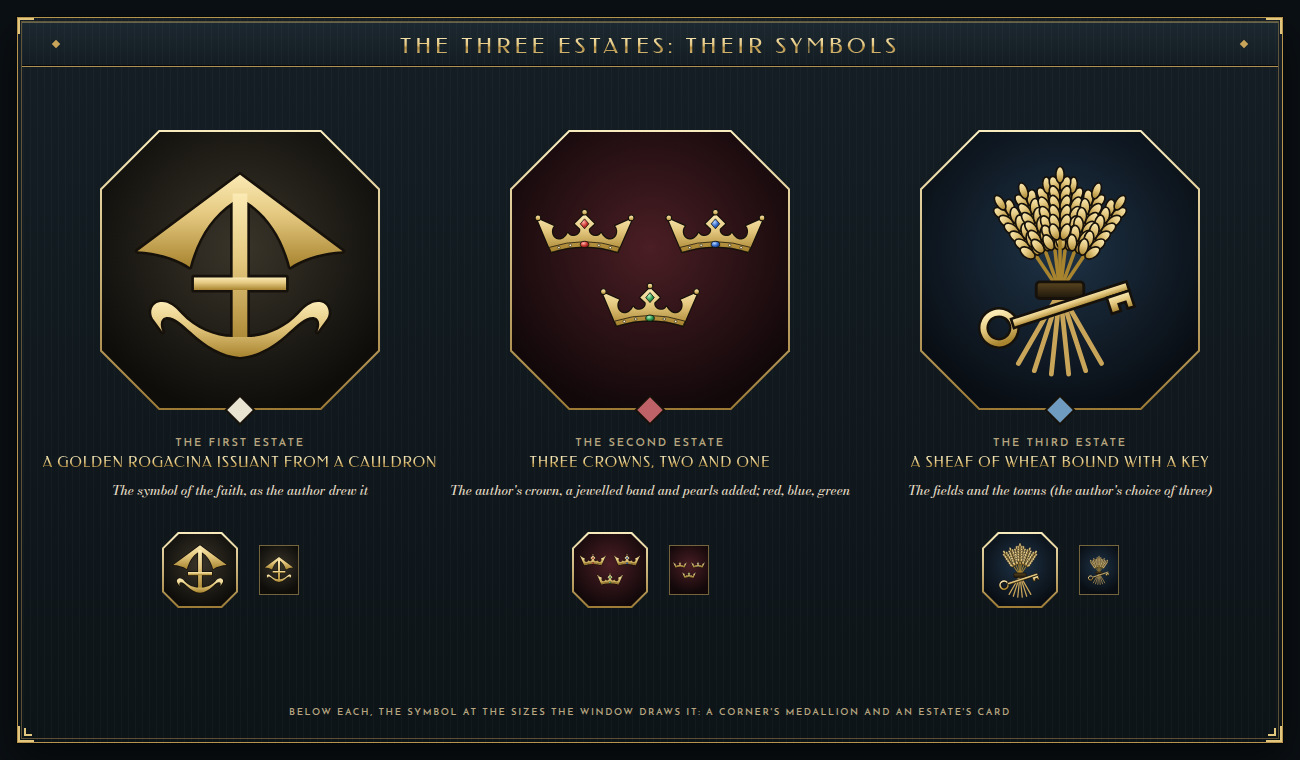
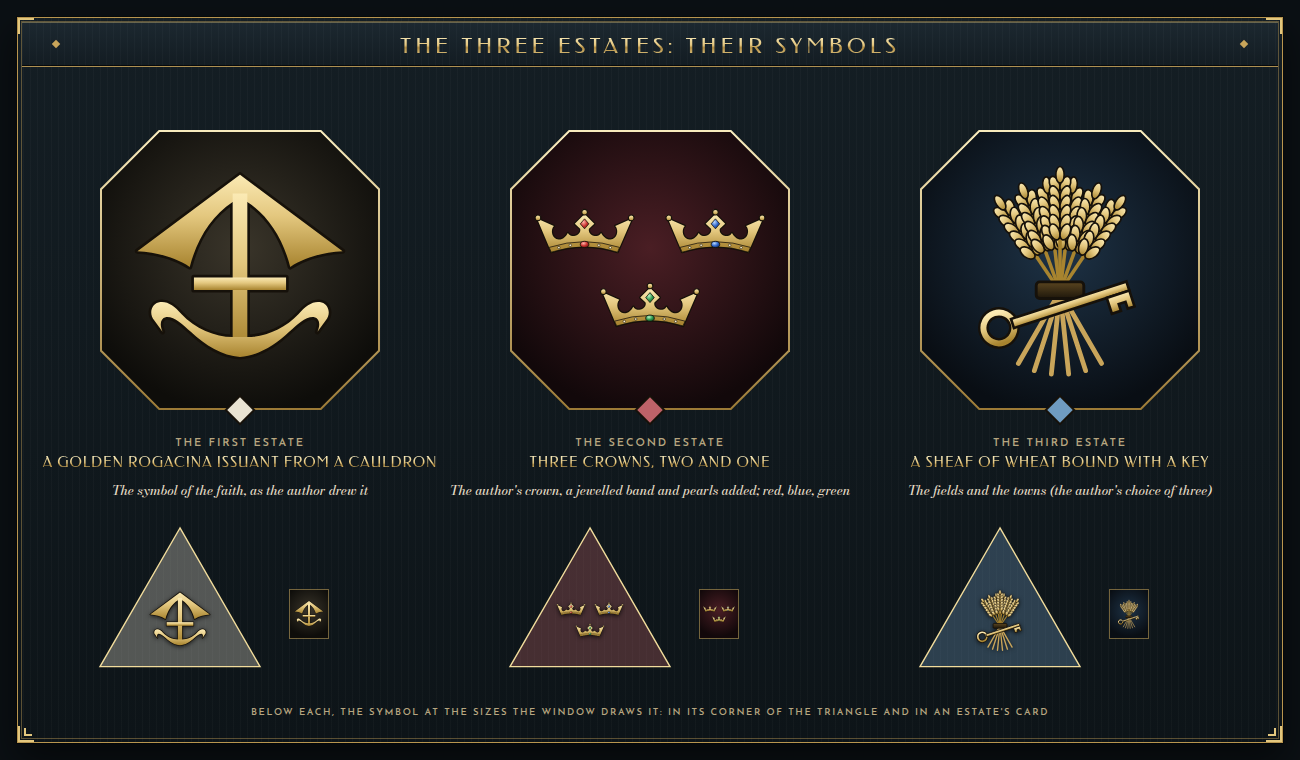
Three estates mockup: the symbols inside the triangle; Altar and Arms
The author chose the symbols inside the triangle's corners: every screen of the
mockup draws them there now (the zones sheet and the symbols sheet too), and
the separate window_inside picture is gone. The edge where the Third Estate is
shut out is Altar and Arms (was Altar and Manor), to alliterate as Church and
Commons and Manor and Market do.

Claude-Session: https://claude.ai/code/session_01TG83F4TvroUcXdi7eqNhMG

diff --git a/deco_ui/art/proposals/three_estates/make.py b/deco_ui/art/proposals/three_estates/make.py
@@ -11,13 +11,13 @@ we can tie things to Serelle winning battles, that'd be great. But otherwise it'
 Three screens:
   three_estates_window.png       1 June 2036: the estates in balance, Royal Authority rising, the Court behind Roland,
                                  the Promised Reforms running; Divide and Rule hovered
-  three_estates_window_inside.png  the same June, each estate's symbol inside its corner of the triangle
   three_estates_lords_realm.png  1 March 2037: the Second Estate over 60, the Lords' Realm: Royal Authority falling, the
                                  Court behind Serelle, the governorates under 40 that would break away
   three_estates_zones.png        the seven zones, Royal Authority and the Court's favour (a sheet for the author)
   three_estates_symbols.png      the estates' symbols large, and at the sizes the window draws them
 The estates are shown by their symbols, not their holders' portraits (the author: "Instead of portraits, I think I'd
-prefer to use symbols for the three estates": symbols.py).
+prefer to use symbols for the three estates": symbols.py), inside the triangle's corners (the author: "Let's go with the
+symbols inside the triangle"; until then in medallions beside them, corners_of, kept: inside=False).
 Not in the mod; the zones' names and effects, the decisions, Royal Authority's bands and every number but the start
 are placeholders; the Third Estate's champion is the author's to name.
 
@@ -98,7 +98,10 @@ ZONES = {
                   pts=((0, 0, 100), (40, 0, 60), (0, 40, 60)), col=ESTATES["third"][2],
                   eff=[("Democratic support", "+0.05 a day", 0), ("Royal Authority", "−2 a month", -1), ("Stability", "−5 %", -1),
                        ("Mercantile estates' loyalty", "+10", 1)]),
-    "no_third": dict(name="Altar and Manor", where="The Third Estate under 15", ra=0,
+    # "Altar and Arms" (the author: "come up with something besides "altar and manor." Something that fits with the
+    # alliteration of the other equivalents of it"): the altar the clergy's, arms the lords' (their swords and their
+    # coats of arms); Claude's
+    "no_third": dict(name="Altar and Arms", where="The Third Estate under 15", ra=0,
                      desc="Clergy and lords govern between them; the commons go unheard.",
                      leads="No path of its own: the commons' anger grows",
                      pts=((60, 40, 0), (40, 60, 0), (25, 60, 15), (60, 25, 15)),
@@ -184,15 +187,12 @@ START = (35, 35, 30)                       # 1 January 2036: the author's
 BREAK_BELOW = 40                           # a governorate under it breaks away in the Lords' Realm (Claude's)
 
 SCREENS = {
-    "window": dict(date="1 June 2036", since="January", ra=35, favour=62, hover=3, mission=(212, 0),
+    "window": dict(date="1 June 2036", since="January", ra=35, favour=62, hover=3, mission=(212, 0), inside=True,
                    trail=[(35, 35, 30), (36, 35, 29), (33, 41, 26), (29, 37, 34), (33, 35, 32), (32, 36, 32)]),
-    "lords_realm": dict(date="1 March 2037", since="January", ra=12, favour=43,
+    "lords_realm": dict(date="1 March 2037", since="January", ra=12, favour=43, inside=True,
                         trail=[(32, 36, 32), (30, 40, 30), (28, 46, 26), (27, 51, 22), (25, 56, 19), (24, 60, 16),
                                (23, 63, 14)]),
 }
-# the same June as the first, the symbols inside the triangle's corners (the author: "maybe make a mockup showing what
-# it'd look like if the symbols were in the triangles, rather than off to the side")
-SCREENS["window_inside"] = dict(SCREENS["window"], inside=True)
 
 
 def divide(shares):
@@ -228,14 +228,14 @@ def corners_of(T, shares):
     return out
 
 
-def triangle(T, zone, trail, ghost, inside=False):
+def triangle(T, zone, trail, ghost=None, inside=False, **kw):
     """the three powers' triangle drawn with the estates; inside, without the corners' names (their symbols are there)"""
     if not inside:
-        return TP.triangle(T, zone, trail, ghost)
+        return TP.triangle(T, zone, trail, ghost, **kw)
     keep = TP.LABEL_AT
     TP.LABEL_AT = {k: v for k, v in LABEL_AT.items() if k not in ORDER}
     try:
-        return TP.triangle(T, zone, trail, ghost)
+        return TP.triangle(T, zone, trail, ghost, **kw)
     finally:
         TP.LABEL_AT = keep
 
@@ -250,11 +250,10 @@ def marker(T, shares):
             f'<path d="{d(x, y, 4)}" fill="#16110A"/></svg>')
 
 
-def corners_inside(T, shares):
+def corners_inside(T, shares, n=80):
     """each estate's symbol in its corner of the triangle (the corner zone, which has the triangle's own shape: the
     symbol on its centre); outside the corners the estate, its zone's name and its share, no medallions"""
     out = ""
-    n = 80
     for k, share in zip(ORDER, shares):
         pts = [T.at(*p) for p in ZONES[k]["pts"]]
         cx, cy = sum(x for x, _ in pts) / 3, sum(y for _, y in pts) / 3
@@ -531,8 +530,8 @@ def zones_sheet():
     body += window(16, 16, w - 32, h - 32)
     body += header(22, 22, w - 44, 44, "The Three Estates: the seven zones and the Crown", 22)
     T = TP.Tri(390, 210, 600)
-    body += TP.triangle(T, None, [START], size=13)
-    body += corners_of(T, START)
+    body += triangle(T, None, [START], inside=True, size=13)
+    body += corners_inside(T, START, 110) + marker(T, START)
     body += label(60, 84, "Where the balance stands decides where Rouental goes", 10, LABEL)
     body += text(60, 100, "An estate of 60 or more takes Rouental down its path; an estate under 15 is shut out; between "
                  "them, the Crown holds the scales.", 13, CREAM2, w=640, font="bod", weight=500, lh=1.3)
@@ -579,7 +578,7 @@ def zones_sheet():
 
 
 def symbols_sheet():
-    """the three symbols large in the corners' medallions, and each at the sizes the window draws it"""
+    """the three symbols large in medallions, and each at the sizes the window draws it"""
     w, h = 1300, 760
     body = box(0, 0, w, h, "background:#0B1014")
     body += window(16, 16, w - 32, h - 32)
@@ -595,12 +594,19 @@ def symbols_sheet():
         body += label(cx - 190, cy + 168, ESTATES[k][0], 11, LABEL, w=380, align="center")
         body += title(cx - 200, cy + 186, lines[k][0], 14.5, w=400, align="center", track=.06)
         body += text(cx - 200, cy + 214, lines[k][1], 13, CREAM2, w=400, align="center", font="bod", weight=500)
-        # at the window's sizes: the corner's medallion (76) and the card's well (38)
-        body += TP.octo(cx - 40, cy + 300, 38, picture(k, 72, 72))
-        body += (f'<div class="a" style="left:{cx + 20}px;top:{cy + 276}px;width:38px;height:48px;'
+        # at the window's sizes: in its corner of the triangle (a corner zone 160 px a side, the symbol 80 on its centre)
+        # and in the card's well (38)
+        s, ax, ay = 160, cx - 60, cy + 258
+        hh = s * math.sqrt(3) / 2
+        body += (f'<svg class="a" style="left:0;top:0;overflow:visible" width="1" height="1"><polygon points="{ax},{ay} '
+                 f'{ax - s / 2},{ay + hh:.1f} {ax + s / 2},{ay + hh:.1f}" fill="{rgba(ESTATES[k][2], .32)}" '
+                 f'stroke="#F1DC9C" stroke-width="1.4"/></svg>')
+        body += (f'<div class="a" style="left:{ax - 40}px;top:{ay + hh * 2 / 3 - 40:.1f}px;'
+                 f'filter:drop-shadow(0 1px 2px rgba(0,0,0,.7))">{SY.symbol(k, 80)}</div>')
+        body += (f'<div class="a" style="left:{cx + 50}px;top:{cy + 320}px;width:38px;height:48px;'
                  f'box-shadow:0 0 0 1px rgba(201,165,90,.55);overflow:hidden">{picture(k, 38, 48)}</div>')
-    body += label(60, h - 52, "Below each, the symbol at the sizes the window draws it: a corner's medallion and an "
-                  "estate's card", 9.5, LABEL, w=w - 120, align="center")
+    body += label(60, h - 52, "Below each, the symbol at the sizes the window draws it: in its corner of the triangle "
+                  "and in an estate's card", 9.5, LABEL, w=w - 120, align="center")
     return body, w, h
 
 

diff --git a/deco_ui/art/proposals/three_estates/README.md b/deco_ui/art/proposals/three_estates/README.md
@@ -11,15 +11,14 @@ mockup." The plan and the author's words in full: `docs/ROUENTAL_ESTATES.md`.
 
 | Picture | What it shows |
 |---|---|
-| `three_estates_window.png` | 1 June 2036. The politics screen with the Three Estates' button where the three powers' sits, and its window. The triangle: the First Estate (the clergy, Anserra IX) at the top, the Second (the nobility, Tara Blanchart) bottom left, the Third (the commons, their champion to be named) bottom right; the marker in the Balance of Estates. Beside it: the estates, the Crown (Royal Authority 35 and rising; whom the Court follows, Roland 62, his diplomatic bonuses), the decisions, the estates' leanings. Under the triangle the Promised Reforms running (212 days left). Divide and Rule hovered: the strongest estate gives ground |
-| `three_estates_window_inside.png` | The same window with each estate's symbol inside its corner of the triangle (the author: "maybe make a mockup showing what it'd look like if the symbols were in the triangles, rather than off to the side"): the rogacina in the Voix Behind the Curtain, the three crowns in the Lords' Realm, the sheaf and key in the Commons Ascendant; the medallions gone, each estate's name, zone and share outside its corner, the marker drawn over them |
+| `three_estates_window.png` | 1 June 2036. The politics screen with the Three Estates' button where the three powers' sits, and its window. The triangle: the First Estate (the clergy, Anserra IX) at the top, the Second (the nobility, Tara Blanchart) bottom left, the Third (the commons, their champion to be named) bottom right, each estate's symbol inside its corner (the author: "Let's go with the symbols inside the triangle"), its name, zone and share outside it; the marker in the Balance of Estates. Beside it: the estates, the Crown (Royal Authority 35 and rising; whom the Court follows, Roland 62, his diplomatic bonuses), the decisions, the estates' leanings. Under the triangle the Promised Reforms running (212 days left). Divide and Rule hovered: the strongest estate gives ground |
 | `three_estates_lords_realm.png` | 1 March 2037. The Second Estate at 63: the Lords' Realm. Royal Authority 12 and falling; the Court behind Serelle (her army bonuses); in place of the decisions, the realm's map with the five governorates under 40 loyalty that would break away, numbered on their seals |
-| `three_estates_symbols.png` | The three estates' symbols, in place of their holders' portraits (the author: "Instead of portraits, I think I'd prefer to use symbols for the three estates"; then: "'rogacina issuant from a cauldron' is the name of the symbol ... Maybe just have the symbol for the 2nd estate be three crowns arranged in a triangle. Maybe have the crowns look like a slightly more ornamented version of this? One with a red gem, one with blue, one with green? For the third estate, I prefer the wheat and key"): the rogacina as the author drew it; three crowns two and one, 30 px apart on the 200 px drawing ("space out the three crowns a little more evenly", then "Spread the crowns out a little more"), the author's crown (Heraldicon's) with a jewelled band, pearls on its points and a red, a blue and a green gem; a sheaf of wheat bound with a key; each also at the sizes the window draws it |
+| `three_estates_symbols.png` | The three estates' symbols, in place of their holders' portraits (the author: "Instead of portraits, I think I'd prefer to use symbols for the three estates"; then: "'rogacina issuant from a cauldron' is the name of the symbol ... Maybe just have the symbol for the 2nd estate be three crowns arranged in a triangle. Maybe have the crowns look like a slightly more ornamented version of this? One with a red gem, one with blue, one with green? For the third estate, I prefer the wheat and key"): the rogacina as the author drew it; three crowns two and one, 30 px apart on the 200 px drawing ("space out the three crowns a little more evenly", then "Spread the crowns out a little more"), the author's crown (Heraldicon's) with a jewelled band, pearls on its points and a red, a blue and a green gem; a sheaf of wheat bound with a key; each also at the sizes the window draws it (in its corner of the triangle, in its card) |
 | `three_estates_zones.png` | A sheet for the author: the seven zones, where each begins, what each does and where it leads; Royal Authority's bands and how it moves; what Roland and Serelle each give when they lead |
 
 **How it reads.** The three estates' shares make 100, so the balance is one point in the triangle. An estate of 60 or
 more takes Rouental down its path (the corners: the Voix Behind the Curtain, the Lords' Realm, the Commons
-Ascendant); one under 15 is shut out (the edges: Altar and Manor, Church and Commons, Manor and Market); between them
+Ascendant); one under 15 is shut out (the edges: Altar and Arms, Church and Commons, Manor and Market; Altar and Arms was Altar and Manor until the author asked for "something that fits with the alliteration of the other equivalents of it"); between them
 is the Balance of Estates, where the Crown holds the scales. **Royal Authority** (0 to 100) is the Crown's own: it
 grows a point a month while the balance holds, stays while an estate is shut out and falls two while one dominates, so
 the Prince's path is keeping the estates in balance on purpose (Divide and Rule spends it to pull the strongest back).
@@ -46,7 +45,7 @@ decision (`days_mission_timeout`, its `timeout_effect` the uprising); the Lords'
 the line as subjects of a level of the mod's own (the base game's `autonomy_integrated_puppet` asks for a DLC and bars
 a fascist overlord with a fascist subject), each won back by a decision.
 
-The estates are shown by their symbols (`symbols.py`, drawn by hand as SVG: the rogacina and the crown traced from the author's pictures, the crowns' ornaments and the sheaf and key Claude's), on a dark ground in each estate's colour, in the corners' medallions (or inside the corners: `three_estates_window_inside.png`) and the estates' cards; their holders' names stay in the cards.
+The estates are shown by their symbols (`symbols.py`, drawn by hand as SVG: the rogacina and the crown traced from the author's pictures, the crowns' ornaments and the sheaf and key Claude's), inside the triangle's corners (the author: "Let's go with the symbols inside the triangle", after a version with them in medallions beside the corners, `make.py`'s `inside=False`), and on a dark ground in each estate's colour in the estates' cards; their holders' names stay in the cards.
 
 How they are made: `make.py` draws with the pieces of `../next_screens/deco.py` and the three powers' mockup (its
 triangle and politics screen, given the estates), the realm's map from `scripts/rouental_realm.py`.

diff --git a/dist/open_questions.md b/dist/open_questions.md
@@ -20,7 +20,7 @@ eleven Couronneterre's in name, and its spelling (36 then); Rouental's 24 cities
 | 34 | the governorates (`deco_ui/art/proposals/governorates/`): which heading of your fief list is the Vairande's (Vair is listed under Conflans) and the Riverlanders' (Conflans, the largest, is Claude's guess); the Lyrién and the Lustianaise; how loyal the Northmarchers, Southmarchers, Piscans and Recoltaise are (0 in the mockups) | your notes |
 | 35 | the three powers and the governorates, in game since 2026-10-21, night (bare bones), seen 2026-10-22 ("Looks great so far"): the map's clicks redone (the game clicks a button by its box: now rectangles that tile each governorate), the marker in its place, the Open button's text dark. Click anywhere in a governorate: does it pick that one? The zones' names and effects and the decisions are still Claude's; the other five attitudes' sides later | in game |
 | 36 | Guedelon's ruler: its page names it "The Council of Six", but its portrait says Conseil des Sept (the Council of Seven, you said). Change the name on the page (it comes in with your next export), or tell me what it should be | the Gazetteer |
-| 38 | the three estates (`deco_ui/art/proposals/three_estates/`): the symbols beside the triangle or inside its corners (`three_estates_window.png` or `_window_inside.png`); the Third Estate's champion (a placeholder: your name for them, and whether the reformer and the secret communist are one person); the mockup's placeholders (the zones, Royal Authority's numbers, the Court's bonuses, the decisions, the breaking line at loyalty 40) | the mockup |
+| 38 | the three estates (`deco_ui/art/proposals/three_estates/`): the Third Estate's champion (a placeholder: your name for them, and whether the reformer and the secret communist are one person); the mockup's placeholders (the zones, Altar and Arms in place of Altar and Manor among their names, Royal Authority's numbers, the Court's bonuses, the decisions, the breaking line at loyalty 40) | the mockup |
 | 33 | the groups' way back: "Be prepared for the posibility of returning to how it currently is though": the map before them is kept (`work/pre_groups_1021/`, and the commit before) until you say they stay | |
 
 New to look at:

diff --git a/docs/ROUENTAL_ESTATES.md b/docs/ROUENTAL_ESTATES.md
@@ -74,11 +74,10 @@ slightly more ornamented version of this? One with a red gem, one with blue, one
 prefer the wheat and key." So: the rogacina alone; three crowns two and one after the author's picture of a crown,
 ornamented, red, blue and green; the sheaf bound with a key.
 
-Then: "space out the three crowns a little more evenly", and "Spread the crowns out a little more I suppose ... Also, maybe make a mockup showing what it'd look like if the symbols were in the triangles, rather than off to the side." The crowns are 30 px apart now (on the 200 px drawing), and `three_estates_window_inside.png` puts each symbol inside its corner zone, the estate's name, zone and share outside it.
+Then: "space out the three crowns a little more evenly", and "Spread the crowns out a little more I suppose ... Also, maybe make a mockup showing what it'd look like if the symbols were in the triangles, rather than off to the side." The crowns are 30 px apart now (on the 200 px drawing), and `three_estates_window_inside.png` puts each symbol inside its corner zone, the estate's name, zone and share outside it. The author: "Let's go with the symbols inside the triangle. In addition, try to come up with something besides "altar and manor." Something that fits with the alliteration of the other equivalents of it." So the symbols are inside the corners on every screen of the mockup, and the edge where the Third Estate is shut out is **Altar and Arms** (Claude's: the clergy's altar, the lords' arms, their swords and their coats of arms), beside Church and Commons and Manor and Market.
 
 ## Open
 
-- Symbols beside the triangle, in medallions, or inside its corners (the two windows of the mockup).
 - The Third Estate's champion (the author's to name), and whether the reformer and the secret communist are one person.
-- The mockup's placeholders (the zones, Royal Authority's numbers, the scale's bonuses, the decisions, the breaking
+- The mockup's placeholders (the zones' names, Altar and Arms among them, Royal Authority's numbers, the scale's bonuses, the decisions, the breaking
   line at loyalty 40).

diff --git a/docs/HISTORY.md b/docs/HISTORY.md
@@ -13,7 +13,7 @@ states and countries came next.
 - 2026-10-22, later still: the districts are **Généralités** in the game (the author: "Let's go with Généralité for the
   name of the districts"): the window, the decisions category, the state panel's line ("Généralité of X"), the loyalty
   modifier; the code keeps "governorate". The three estates' symbols as the author wants them (the rogacina alone,
-  three crowns two and one with a red, a blue and a green gem, evenly spaced, then spread further; the sheaf bound with a key), and a second window with the symbols inside the triangle's corners (`three_estates_window_inside.png`). The généralités' French forms (de, du) wait for the author's renames.
+  three crowns two and one with a red, a blue and a green gem, evenly spaced, then spread further; the sheaf bound with a key), and a second window with the symbols inside the triangle's corners (`three_estates_window_inside.png`). The généralités' French forms (de, du) wait for the author's renames. Then the symbols inside the triangle on every screen of the mockup (the author's choice), and the edge Altar and Manor renamed Altar and Arms, to alliterate as Church and Commons and Manor and Market do.
 - 2026-10-22, later still: Rouental "The Sacred Principality of Rouental" under every government but the communist
   (the author: "Cultural and religious intertia is just too strong for anything else"); the three estates planned in
   place of the three powers (`docs/ROUENTAL_ESTATES.md`) and mocked up (`deco_ui/art/proposals/three_estates/`: the
